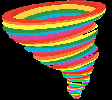
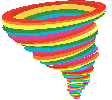
change sprites to use white background

diff --git a/sprites.py b/sprites.py
@@ -65,7 +65,7 @@ class Enemy(pg.sprite.Sprite):
 		self.surface, self.rect = set_sprite(
 			'green goblin.png',
 			(screen.width, randint(25, screen.height - 25)),
-			color=(255, 0, 0))
+			color=(255, 255, 255))
 		self.speed = randint(5, 20)
 	def update(self):
 		self.rect.move_ip(-self.speed, 0)
@@ -97,7 +97,7 @@ class Tornado(pg.sprite.Sprite):
 		super().__init__(*groups)
 		self.magic = randint(0, 10)
 		self.surface = pg.image.load(image_path + ('tornado.png' if self.magic < 8 else 'rainbow_tornado.png')).convert()
-		self.surface.set_colorkey((0, 0, 0), RLEACCEL)
+		self.surface.set_colorkey((255, 255, 255), RLEACCEL)
 		self.rect = self.surface.get_rect(center=(randedge(25, screen.width, screen.height)))
 		self.speed = randint(5, 8)
 		self.__getWaypoint()
